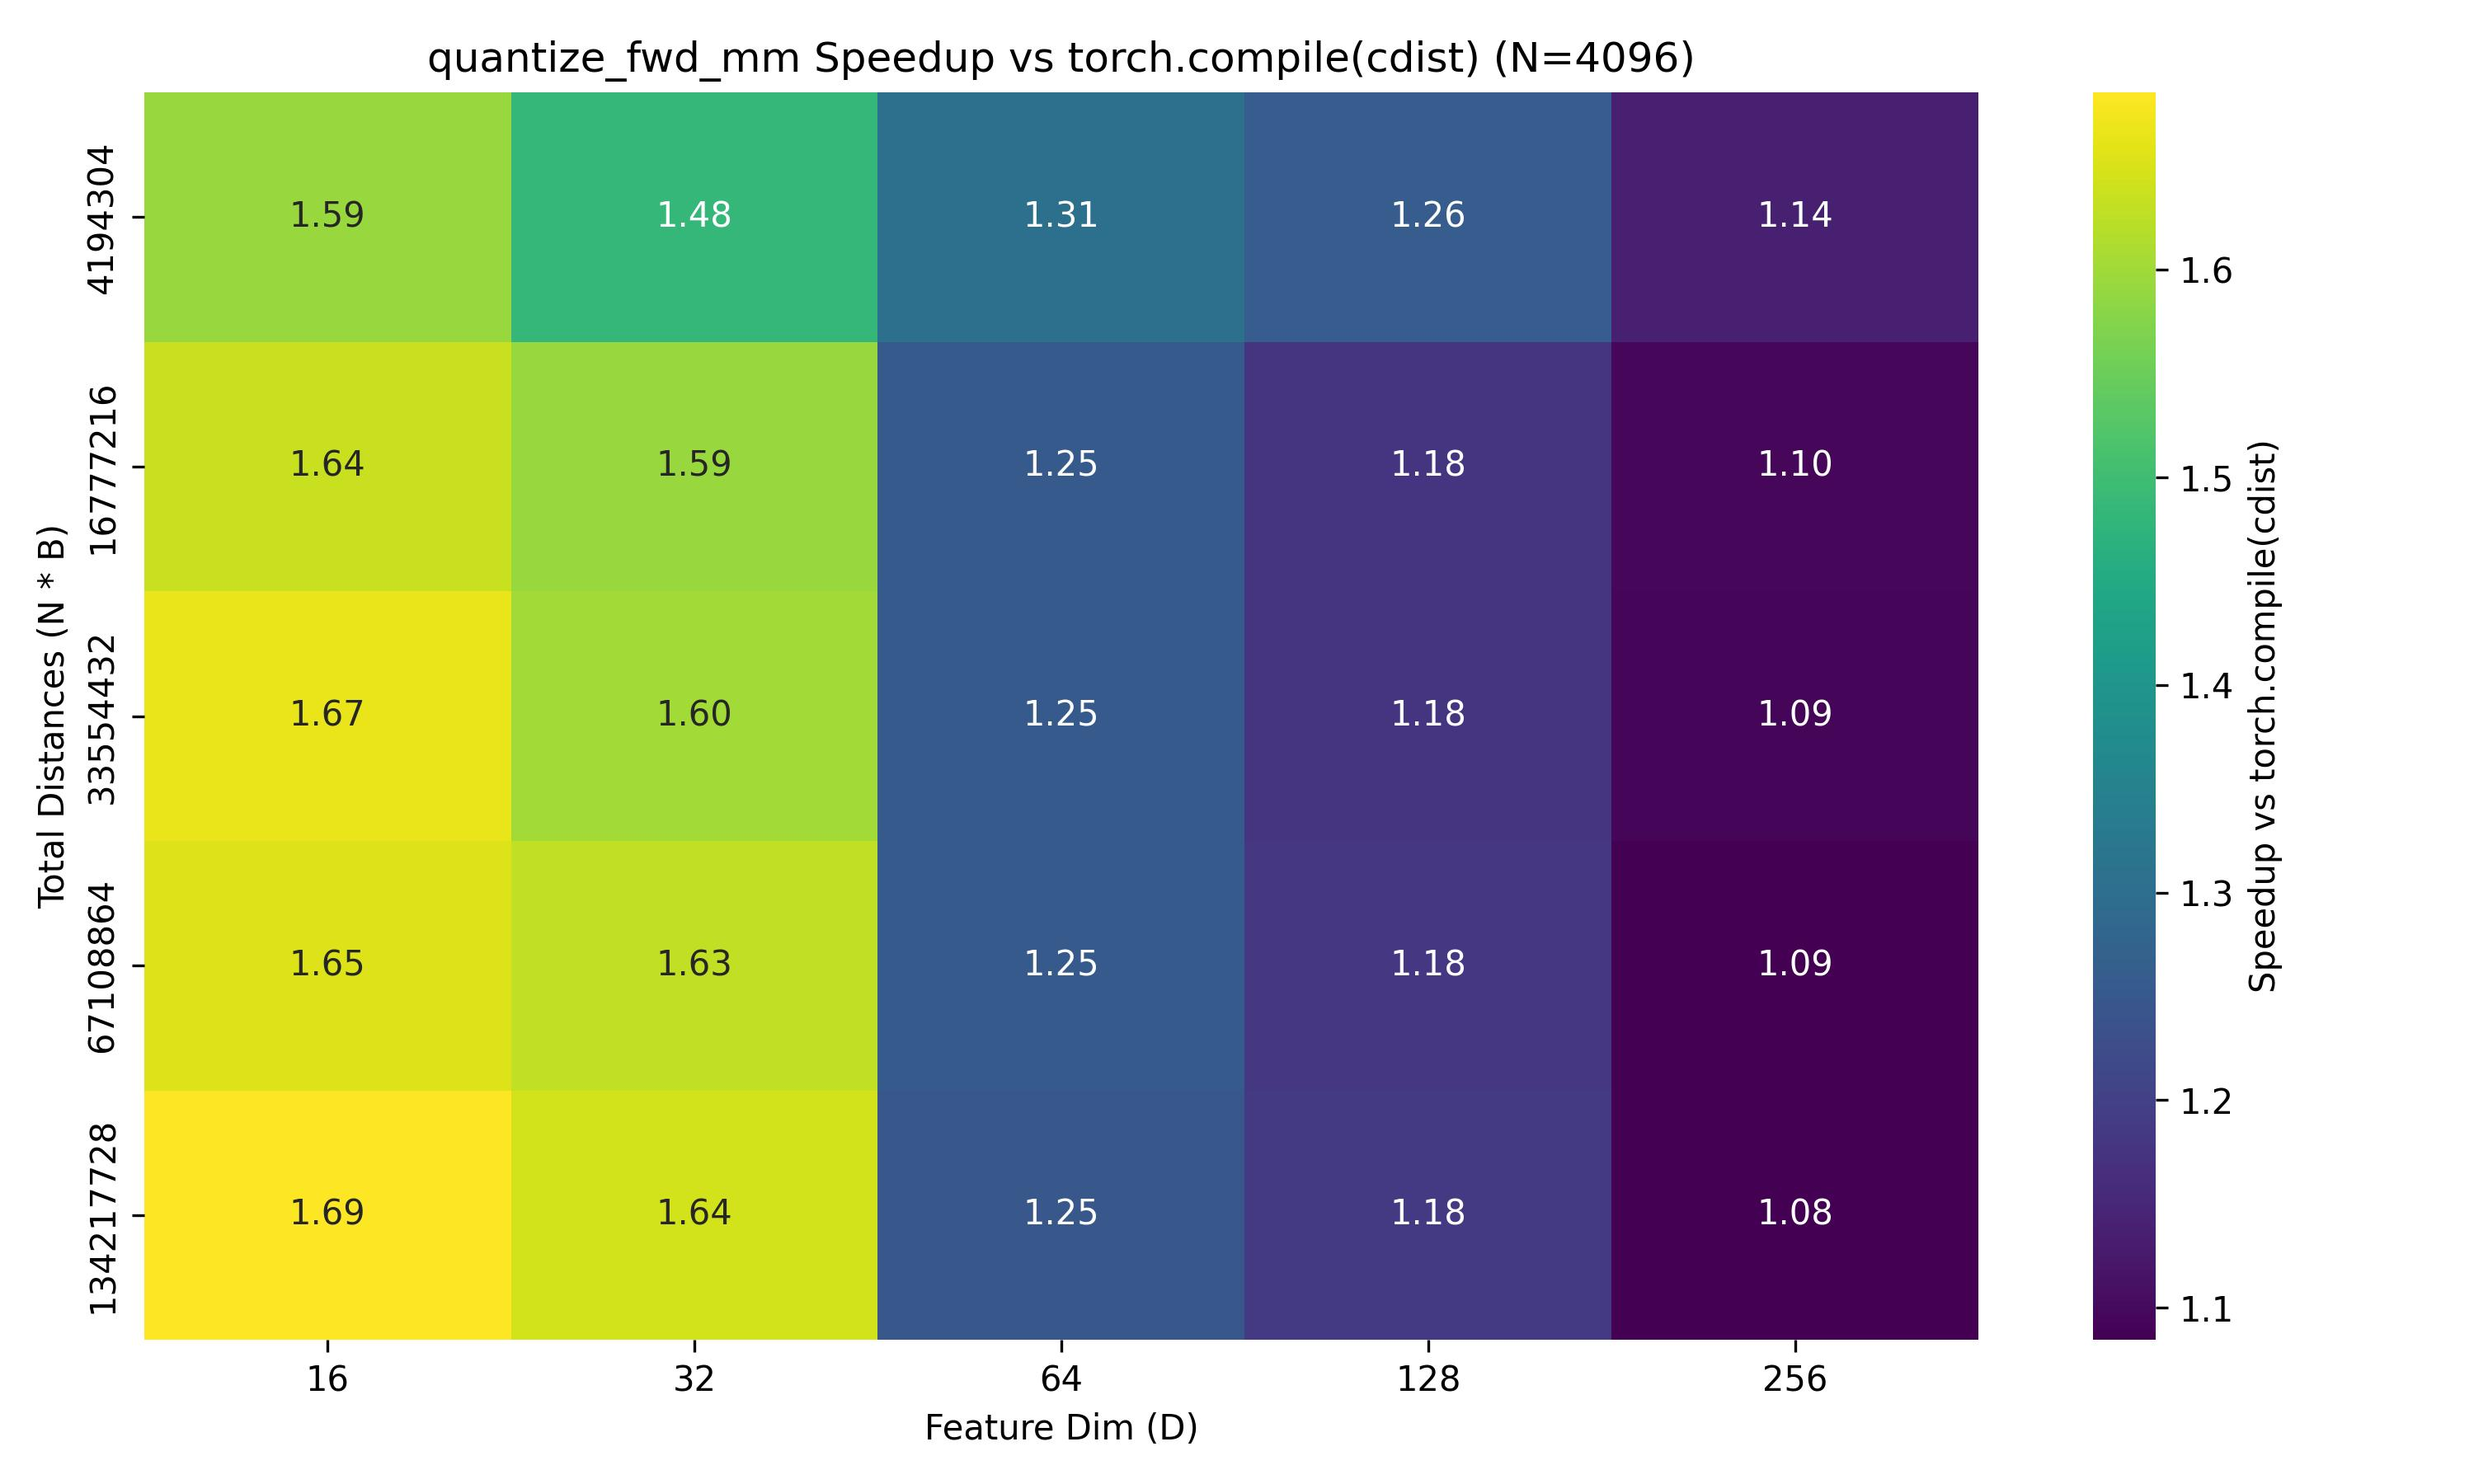
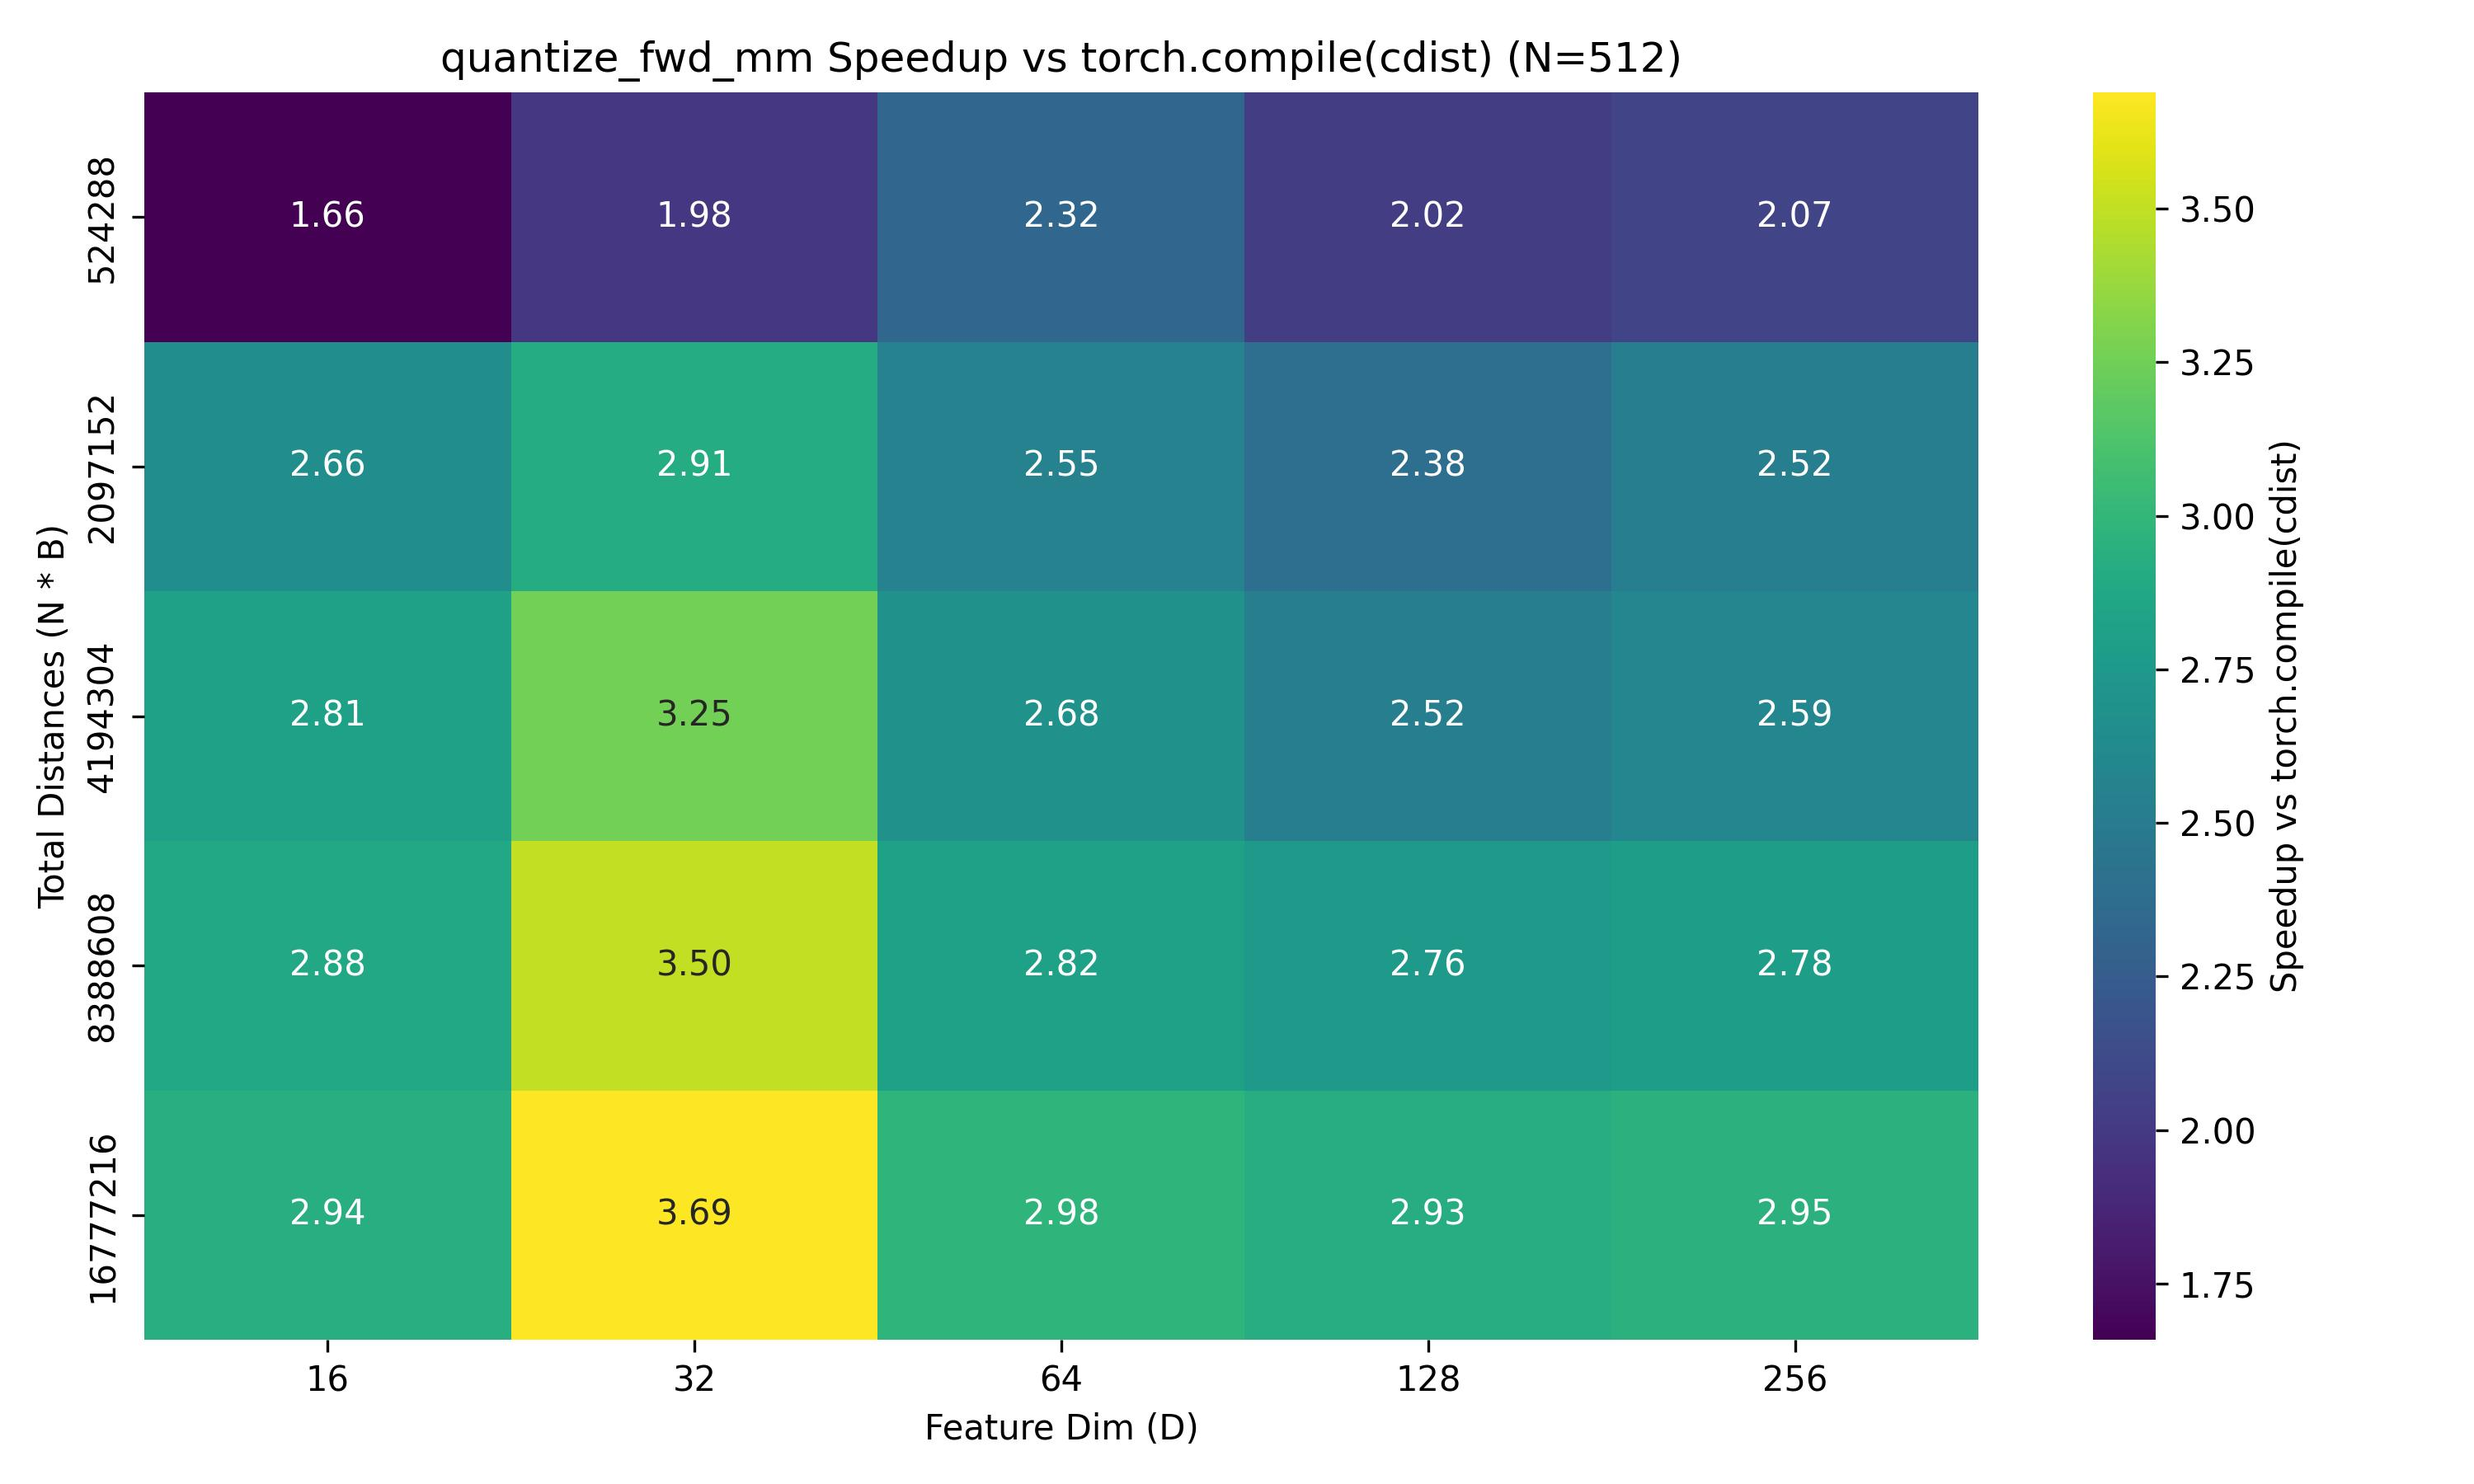
Add kernel selection

diff --git a/kernels/quantize.py b/kernels/quantize.py
@@ -7,7 +7,7 @@ from torch.library import wrap_triton
 IS_PTX_RNA_TF32_SUPPORTED = torch.cuda.is_available() and torch.cuda.get_device_capability()[0] == 8
 
 def kmeans_quantize(x: torch.Tensor, codebook: torch.Tensor):
-    if x.shape[-1] <= 128 and codebook.shape[0]*x.shape[0] >= 16_000_000:
+    if x.shape[-1] <= 128 and x.shape[0] > 2*codebook.shape[0]:
         return quantize_fwd(x, codebook)
     return quantize_fwd_mm(x, codebook)[0]
 

diff --git a/benchmark.py b/benchmark.py
@@ -71,7 +71,7 @@ def plot_heatmap(df, value_col, title, filename):
 
 if __name__ == "__main__":
 
-    N = 4096
+    N = 512
 
     B_vals = [1024, 4096, 8192, 16384, 32768]
     D_vals = [16, 32, 64, 128, 256]
